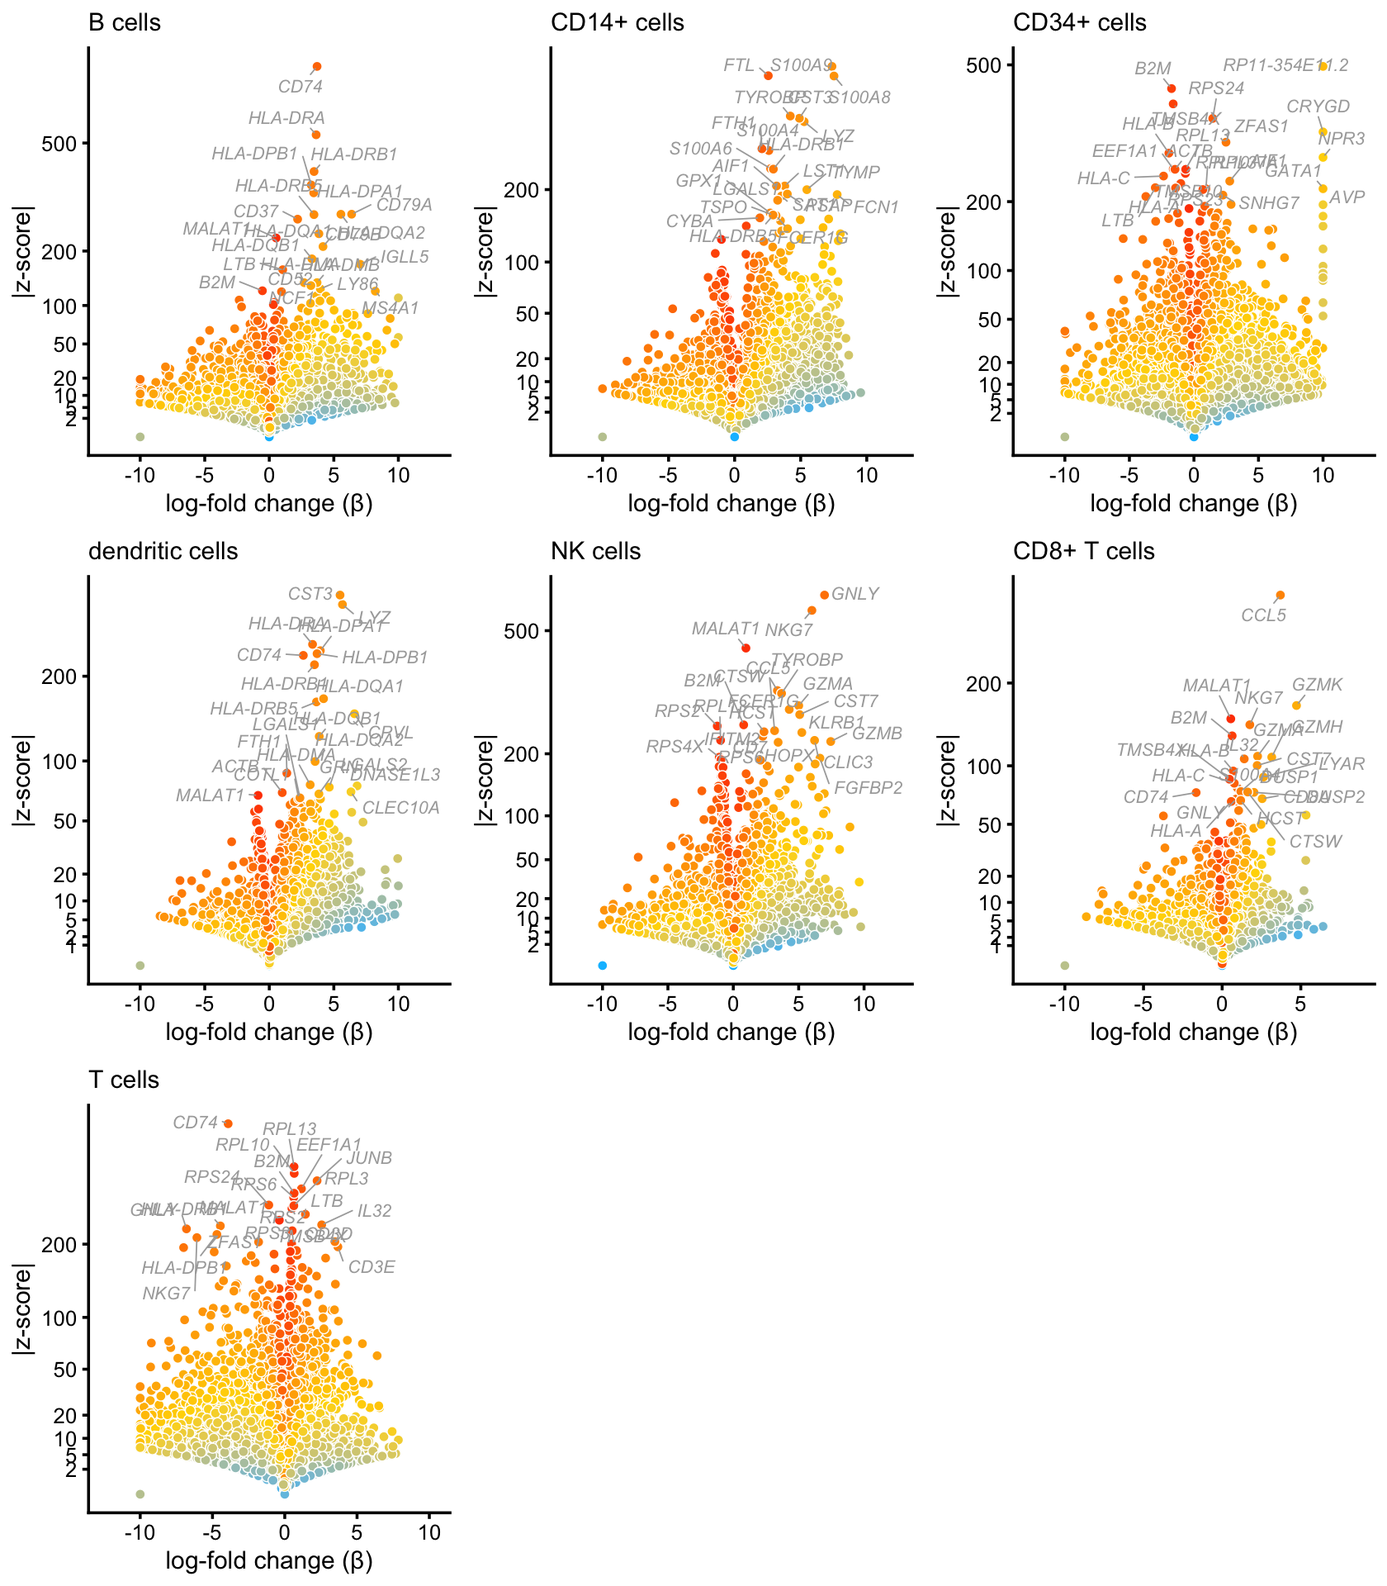
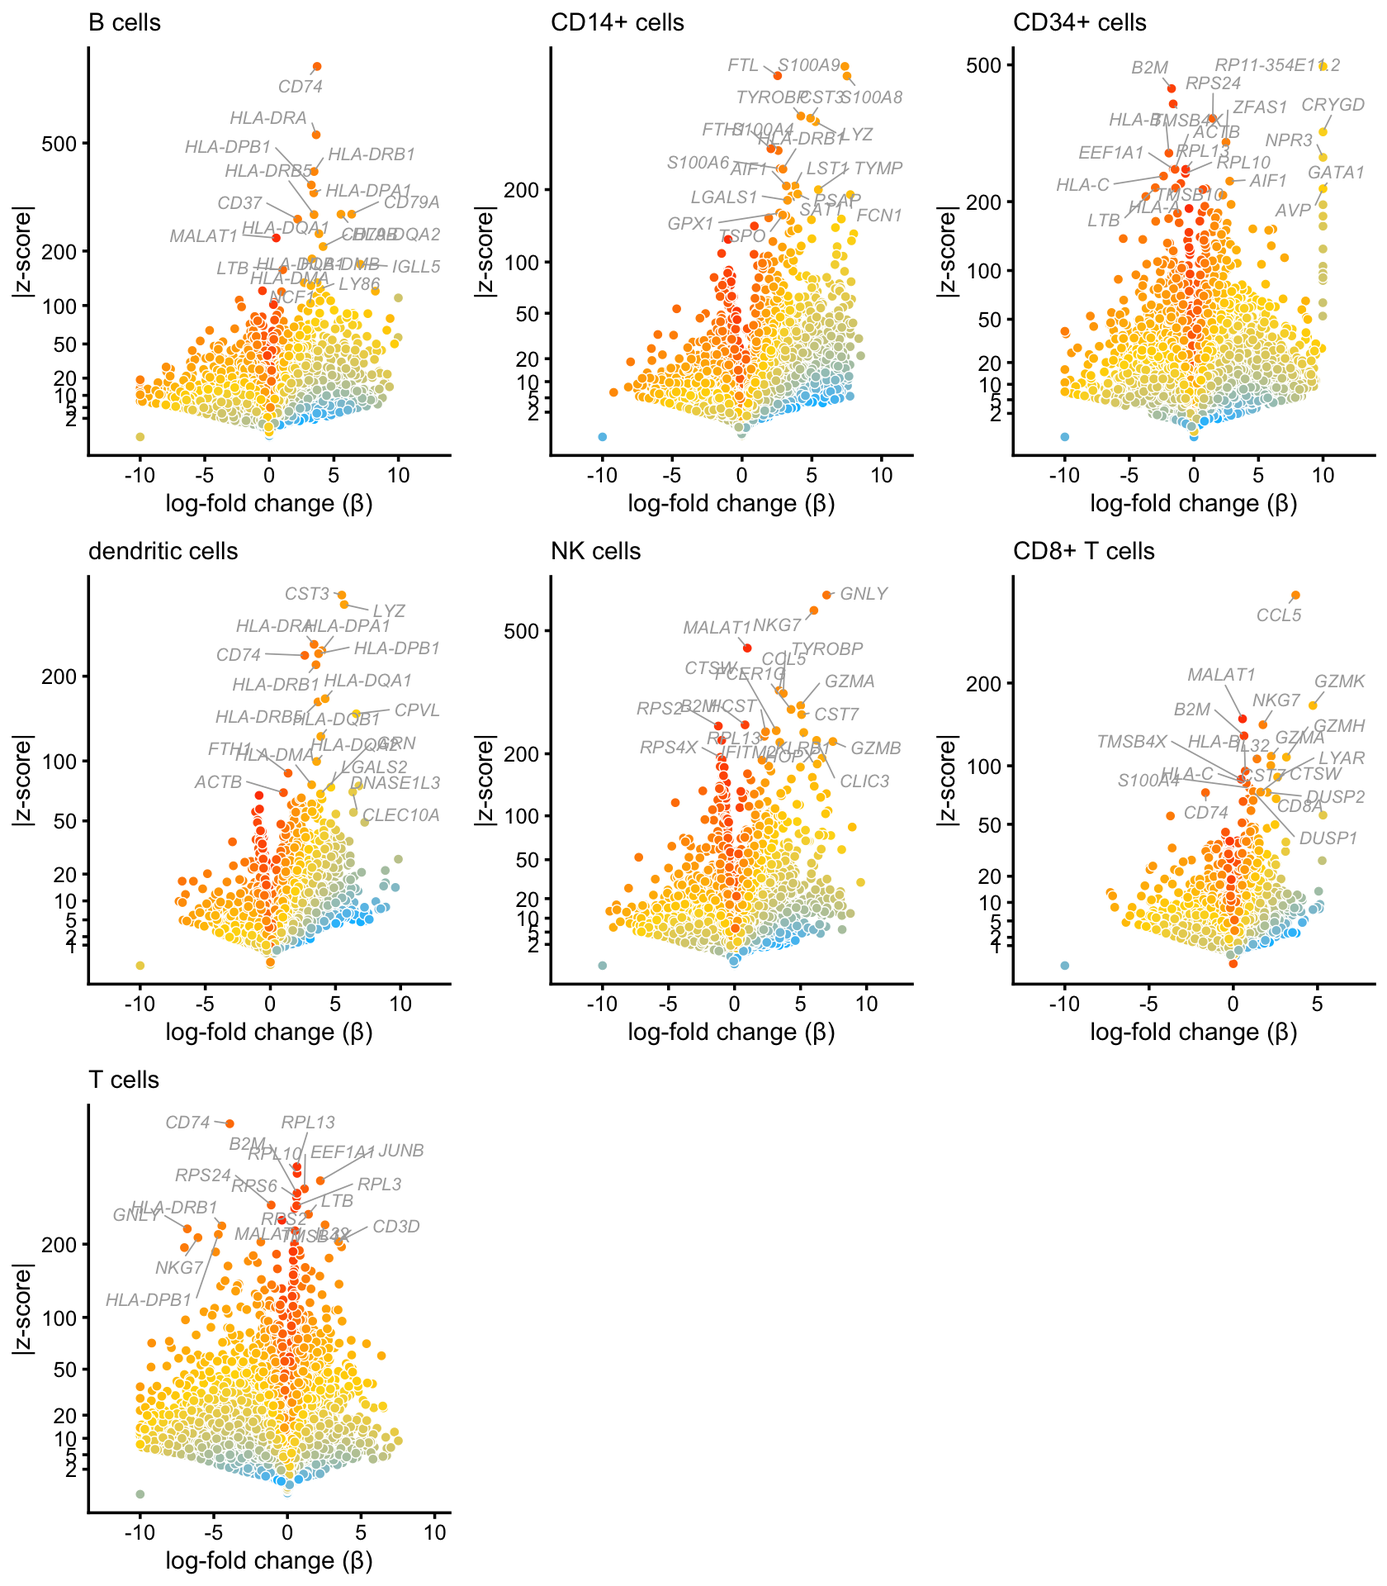
Re-built plots_purified_pbmc page after making improvements to the volcano plots.

diff --git a/docs/plots_purified_pbmc.html b/docs/plots_purified_pbmc.html
@@ -323,7 +323,7 @@ $(document).ready(function () {
 <div class="tab-content">
 <div id="summary" class="tab-pane fade in active">
 <p>
-<strong>Last updated:</strong> 2021-01-29
+<strong>Last updated:</strong> 2021-02-09
 </p>
 <p>
 <strong>Checks:</strong> <span class="glyphicon glyphicon-ok text-success" aria-hidden="true"></span> 6 <span class="glyphicon glyphicon-exclamation-sign text-danger" aria-hidden="true"></span> 1
@@ -429,16 +429,16 @@ diff-count-analysis-topics
 <div class="panel panel-default">
 <div class="panel-heading">
 <p class="panel-title">
-<a data-toggle="collapse" data-parent="#workflowr-checks" href="#strongRepositoryversionstrongahrefhttpsgithubcomstephenslabsinglecelltopicstree0b7339714de3e3fc87c26012b646aa1af42b06e2targetblank0b73397a"> <span class="glyphicon glyphicon-ok text-success" aria-hidden="true"></span> <strong>Repository version:</strong> <a href="https://github.com/stephenslab/single-cell-topics/tree/0b7339714de3e3fc87c26012b646aa1af42b06e2" target="_blank">0b73397</a> </a>
+<a data-toggle="collapse" data-parent="#workflowr-checks" href="#strongRepositoryversionstrongahrefhttpsgithubcomstephenslabsinglecelltopicstreeaecd70036aae5c383667631ec6234a278bea92b3targetblankaecd700a"> <span class="glyphicon glyphicon-ok text-success" aria-hidden="true"></span> <strong>Repository version:</strong> <a href="https://github.com/stephenslab/single-cell-topics/tree/aecd70036aae5c383667631ec6234a278bea92b3" target="_blank">aecd700</a> </a>
 </p>
 </div>
[2 lines of base64/hex data omitted]
 <div class="panel-body">
 <p>
 Great! You are using Git for version control. Tracking code development and connecting the code version to the results is critical for reproducibility.
 </p>
 <p>
-The results in this page were generated with repository version <a href="https://github.com/stephenslab/single-cell-topics/tree/0b7339714de3e3fc87c26012b646aa1af42b06e2" target="_blank">0b73397</a>. See the <em>Past versions</em> tab to see a history of the changes made to the R Markdown and HTML files.
+The results in this page were generated with repository version <a href="https://github.com/stephenslab/single-cell-topics/tree/aecd70036aae5c383667631ec6234a278bea92b3" target="_blank">aecd700</a>. See the <em>Past versions</em> tab to see a history of the changes made to the R Markdown and HTML files.
 </p>
 <p>
 Note that you need to be careful to ensure that all relevant files for the analysis have been committed to Git prior to generating the results (you can use <code>wflow_publish</code> or <code>wflow_git_commit</code>). workflowr only checks the R Markdown file, but you know if there are other scripts or data files that it depends on. Below is the status of the Git repository when the results were generated:
@@ -455,7 +455,6 @@ Ignored files:
     Ignored:    output/droplet/rds/
     Ignored:    output/pbmc-68k/fits-pbmc-68k.RData
     Ignored:    output/pbmc-68k/rds/
-    Ignored:    output/pbmc-purified/diff-count-pbmc-purified.RData
     Ignored:    output/pbmc-purified/fits-pbmc-purified.RData
     Ignored:    output/pbmc-purified/rds/
     Ignored:    output/pulseseq/diff-count-pulseseq.RData
@@ -463,6 +462,7 @@ Ignored files:
     Ignored:    output/pulseseq/rds/
 
 Untracked files:
+    Untracked:  .DS_Store
     Untracked:  analysis/plots_purified_pbmc_cache/
     Untracked:  plots/
 
@@ -503,6 +503,74 @@ Message
 </tr>
 </thead>
 <tbody>
+<tr>
+<td>
+Rmd
+</td>
+<td>
+<a href="https://github.com/stephenslab/single-cell-topics/blob/aecd70036aae5c383667631ec6234a278bea92b3/analysis/plots_purified_pbmc.Rmd" target="_blank">aecd700</a>
+</td>
+<td>
+Peter Carbonetto
+</td>
+<td>
+2021-02-09
+</td>
+<td>
+workflowr::wflow_publish(“plots_purified_pbmc.Rmd”, verbose = TRUE)
+</td>
+</tr>
+<tr>
+<td>
+Rmd
+</td>
+<td>
+<a href="https://github.com/stephenslab/single-cell-topics/blob/1f0eb8cf964185858bb1a1ad82035351424b0550/analysis/plots_purified_pbmc.Rmd" target="_blank">1f0eb8c</a>
+</td>
+<td>
+Peter Carbonetto
+</td>
+<td>
+2021-02-08
+</td>
+<td>
+More improvements to volcano plots in plots_purified_pbmc.Rmd.
+</td>
+</tr>
+<tr>
+<td>
+Rmd
+</td>
+<td>
+<a href="https://github.com/stephenslab/single-cell-topics/blob/be277389ea8d2bb0c390c95e4be08713ab595dfb/analysis/plots_purified_pbmc.Rmd" target="_blank">be27738</a>
+</td>
+<td>
+Peter Carbonetto
+</td>
+<td>
+2021-02-08
+</td>
+<td>
+Improved volcano plots for FACS cell populations in plots_purified_pbmc.Rmd.
+</td>
+</tr>
+<tr>
+<td>
+html
+</td>
+<td>
+<a href="https://rawcdn.githack.com/stephenslab/single-cell-topics/ab3eeb82557ac15852443a50d3aad409242690c7/docs/plots_purified_pbmc.html" target="_blank">ab3eeb8</a>
+</td>
+<td>
+Peter Carbonetto
+</td>
+<td>
+2021-01-29
+</td>
+<td>
+Build site.
+</td>
+</tr>
 <tr>
 <td>
 Rmd
@@ -812,7 +880,8 @@ diff_count_facs &lt;- diff_count_clusters(celltype,counts)
 # CD8+ Cytotoxic T           T cell 
 #            10209            54132 
 # Fitting 21952 x 6 = 131712 univariate Poisson models.
-# Computing log-fold change statistics.</code></pre>
+# Computing log-fold change statistics.
+# Stabilizing log-fold change estimates using adaptive shrinkage.</code></pre>
 <div class="alert alert-warning">
 <p>
 <strong>Warning:</strong> The above code chunk cached its results, but it won’t be re-run if previous chunks it depends on are updated. If you need to use caching, it is highly recommended to also set <code>knitr::opts_chunk$set(autodep = TRUE)</code> at the top of the file (in a chunk that is not cached). Alternatively, you can customize the option <code>dependson</code> for each individual chunk that is cached. Using either <code>autodep</code> or <code>dependson</code> will remove this warning. See the <a href="https://yihui.name/knitr/options/#cache"
@@ -821,27 +890,39 @@ diff_count_facs &lt;- diff_count_clusters(celltype,counts)
 </div>
 <p>These volcano plots summarize the results of the differential expression analysis using the FACS labeling:</p>
 <pre class="r"><code>p1 &lt;- volcano_plot(diff_count_facs,&quot;CD19+ B&quot;,genes$symbol,
-                   label_above_quantile = 0.9995) +
+                   label_above_quantile = 0.9995,
+                   subsample_below_quantile = 0.5,
+                   filter_low_counts = 5e-5) +
   guides(fill = &quot;none&quot;) +
   ggtitle(&quot;B cells&quot;)
 p2 &lt;- volcano_plot(diff_count_facs,&quot;CD14+ Monocyte&quot;,genes$symbol,
-                   label_above_quantile = 0.9995) +
+                   label_above_quantile = 0.9995,
+                   subsample_below_quantile = 0.5,
+                   filter_low_counts = 5e-5) +
   guides(fill = &quot;none&quot;) +
   ggtitle(&quot;CD14+ cells&quot;)
 p3 &lt;- volcano_plot(diff_count_facs,&quot;CD34+&quot;,genes$symbol,
-                   label_above_quantile = 0.999) +
+                   label_above_quantile = 0.999,
+                   subsample_below_quantile = 0.5,
+                   filter_low_counts = 5e-5) +
   guides(fill = &quot;none&quot;) +
   ggtitle(&quot;CD34+ cells&quot;)
 p4 &lt;- volcano_plot(diff_count_facs,&quot;CD56+ NK&quot;,genes$symbol,
-                   label_above_quantile = 0.9995) +
+                   label_above_quantile = 0.9995,
+                   subsample_below_quantile = 0.5,
+                   filter_low_counts = 5e-5) +
   guides(fill = &quot;none&quot;) +
   ggtitle(&quot;NK cells&quot;)
 p5 &lt;- volcano_plot(diff_count_facs,&quot;CD8+ Cytotoxic T&quot;,genes$symbol,
-                   label_above_quantile = 0.9995) +
+                   label_above_quantile = 0.9995,
+                   subsample_below_quantile = 0.5,
+                   filter_low_counts = 5e-5) +
   guides(fill = &quot;none&quot;) +
   ggtitle(&quot;CD8+ T cells&quot;)
 p6 &lt;- volcano_plot(diff_count_facs,&quot;T cell&quot;,genes$symbol,
-                   label_above_quantile = 0.999) +
+                   label_above_quantile = 0.999,
+                   subsample_below_quantile = 0.5,
+                   filter_low_counts = 5e-5) +
   guides(fill = &quot;none&quot;) +
   ggtitle(&quot;T cells&quot;)
 plot_grid(p1,p2,p3,p4,p5,p6,nrow = 2,ncol = 3)</code></pre>
@@ -868,6 +949,17 @@ Date
 </tr>
 </thead>
 <tbody>
+<tr>
+<td>
+<a href="https://github.com/stephenslab/single-cell-topics/blob/ab3eeb82557ac15852443a50d3aad409242690c7/docs/figure/plots_purified_pbmc.Rmd/volcano-plots-1-1.png" target="_blank">ab3eeb8</a>
+</td>
+<td>
+Peter Carbonetto
+</td>
+<td>
+2021-01-29
+</td>
+</tr>
 <tr>
 <td>
 <a href="https://github.com/stephenslab/single-cell-topics/blob/42ebc62099a4d7af6134fbfea745d3d7b6cdfbf3/docs/figure/plots_purified_pbmc.Rmd/volcano-plots-1-1.png" target="_blank">42ebc62</a>
@@ -934,7 +1026,8 @@ diff_count_clusters &lt;- diff_count_clusters(samples$cluster,counts)
 #         B     CD14+     CD34+      CD8+ dendritic        NK         T 
 #     10439      2956      8237      3757       308      8380     60578 
 # Fitting 21952 x 7 = 153664 univariate Poisson models.
-# Computing log-fold change statistics.</code></pre>
+# Computing log-fold change statistics.
+# Stabilizing log-fold change estimates using adaptive shrinkage.</code></pre>
 <div class="alert alert-warning">
 <p>
 <strong>Warning:</strong> The above code chunk cached its results, but it won’t be re-run if previous chunks it depends on are updated. If you need to use caching, it is highly recommended to also set <code>knitr::opts_chunk$set(autodep = TRUE)</code> at the top of the file (in a chunk that is not cached). Alternatively, you can customize the option <code>dependson</code> for each individual chunk that is cached. Using either <code>autodep</code> or <code>dependson</code> will remove this warning. See the <a href="https://yihui.name/knitr/options/#cache"
@@ -943,33 +1036,54 @@ diff_count_clusters &lt;- diff_count_clusters(samples$cluster,counts)
 </div>
 <p>These volcano plots summarize the results of the differential expression analysis using the clusters:</p>
 <pre class="r"><code>p7 &lt;- volcano_plot(diff_count_clusters,&quot;B&quot;,genes$symbol,
-                   label_above_quantile = 0.999) +
+                   label_above_quantile = 0.999,
+                   subsample_below_quantile = 0.5,
+                   filter_low_counts = 5e-5) +
   guides(fill = &quot;none&quot;) +
   ggtitle(&quot;B cells&quot;)
+# 10134 out of 18417 data points will be included in plot
 p8 &lt;- volcano_plot(diff_count_clusters,&quot;CD14+&quot;,genes$symbol,
-                   label_above_quantile = 0.999) +
+                   label_above_quantile = 0.999,
+                   subsample_below_quantile = 0.5,
+                   filter_low_counts = 5e-5) +
   guides(fill = &quot;none&quot;) +
   ggtitle(&quot;CD14+ cells&quot;)
+# 10130 out of 18417 data points will be included in plot
 p9 &lt;- volcano_plot(diff_count_clusters,&quot;CD34+&quot;,genes$symbol,
-                   label_above_quantile = 0.999) +
+                   label_above_quantile = 0.999,
+                   subsample_below_quantile = 0.5,
+                   filter_low_counts = 5e-5) +
   guides(fill = &quot;none&quot;) +
   ggtitle(&quot;CD34+ cells&quot;)
+# 10130 out of 18417 data points will be included in plot
 p10 &lt;- volcano_plot(diff_count_clusters,&quot;dendritic&quot;,genes$symbol,
-                    label_above_quantile = 0.999) +
+                    label_above_quantile = 0.999,
+                    subsample_below_quantile = 0.5,
+                    filter_low_counts = 5e-5) +
   guides(fill = &quot;none&quot;) +
   ggtitle(&quot;dendritic cells&quot;)
+# 10130 out of 18417 data points will be included in plot
 p11 &lt;- volcano_plot(diff_count_clusters,&quot;NK&quot;,genes$symbol,
-                    label_above_quantile = 0.999) +
+                    label_above_quantile = 0.999,
+                    subsample_below_quantile = 0.5,
+                    filter_low_counts = 5e-5) +
   guides(fill = &quot;none&quot;) +
   ggtitle(&quot;NK cells&quot;)
+# 10130 out of 18417 data points will be included in plot
 p12 &lt;- volcano_plot(diff_count_clusters,&quot;CD8+&quot;,genes$symbol,
-                    label_above_quantile = 0.999) +
+                    label_above_quantile = 0.999,
+                    subsample_below_quantile = 0.5,
+                    filter_low_counts = 5e-5) +
   guides(fill = &quot;none&quot;) +
   ggtitle(&quot;CD8+ T cells&quot;)
+# 10130 out of 18417 data points will be included in plot
 p13 &lt;- volcano_plot(diff_count_clusters,&quot;T&quot;,genes$symbol,
-                    label_above_quantile = 0.999) +
+                    label_above_quantile = 0.999,
+                    subsample_below_quantile = 0.5,
+                    filter_low_counts = 5e-5) +
   guides(fill = &quot;none&quot;) +
   ggtitle(&quot;T cells&quot;)
+# 10131 out of 18417 data points will be included in plot
 plot_grid(p7,p8,p9,p10,p11,p12,p13,nrow = 3,ncol = 3)</code></pre>
 <p><img src="figure/plots_purified_pbmc.Rmd/volcano-plots-2-1.png" width="840" style="display: block; margin: auto;" /></p>
 <p>
@@ -994,6 +1108,17 @@ Date
 </tr>
 </thead>
 <tbody>
+<tr>
+<td>
+<a href="https://github.com/stephenslab/single-cell-topics/blob/ab3eeb82557ac15852443a50d3aad409242690c7/docs/figure/plots_purified_pbmc.Rmd/volcano-plots-2-1.png" target="_blank">ab3eeb8</a>
+</td>
+<td>
+Peter Carbonetto
+</td>
+<td>
+2021-01-29
+</td>
+</tr>
 <tr>
 <td>
 <a href="https://github.com/stephenslab/single-cell-topics/blob/42ebc62099a4d7af6134fbfea745d3d7b6cdfbf3/docs/figure/plots_purified_pbmc.Rmd/volcano-plots-2-1.png" target="_blank">42ebc62</a>
@@ -1053,13 +1178,14 @@ Peter Carbonetto
 </table>
 </div>
 </div>
-<p>Perform differential expression analysis using the multinomial topic model, after removing the dendritic cells cluster, and after merging the two T-cell topics:</p>
+<p>Perform differential expression analysis using the multinomial topic model, after removing the dendritic cells cluster, and after merging the two T cell topics:</p>
 <pre class="r"><code>rows &lt;- which(samples$cluster != &quot;dendritic&quot;)
 fit_merged &lt;- select_loadings(fit,loadings = rows)
 fit_merged &lt;- merge_topics(fit,c(1,6))
 diff_count_topics &lt;- diff_count_analysis(fit_merged,counts)
 # Fitting 21952 x 5 = 109760 univariate Poisson models.
-# Computing log-fold change statistics.</code></pre>
+# Computing log-fold change statistics.
+# Stabilizing log-fold change estimates using adaptive shrinkage.</code></pre>
 <div class="alert alert-warning">
 <p>
 <strong>Warning:</strong> The above code chunk cached its results, but it won’t be re-run if previous chunks it depends on are updated. If you need to use caching, it is highly recommended to also set <code>knitr::opts_chunk$set(autodep = TRUE)</code> at the top of the file (in a chunk that is not cached). Alternatively, you can customize the option <code>dependson</code> for each individual chunk that is cached. Using either <code>autodep</code> or <code>dependson</code> will remove this warning. See the <a href="https://yihui.name/knitr/options/#cache"
@@ -1071,17 +1197,19 @@ diff_count_topics &lt;- diff_count_analysis(fit_merged,counts)
 fit_t &lt;- select_loadings(fit,loadings = rows)
 diff_count_t &lt;- diff_count_analysis(fit_t,counts[rows,])
 # Fitting 21952 x 6 = 131712 univariate Poisson models.
-# Computing log-fold change statistics.</code></pre>
+# Computing log-fold change statistics.
+# Stabilizing log-fold change estimates using adaptive shrinkage.</code></pre>
 <div class="alert alert-warning">
 <p>
 <strong>Warning:</strong> The above code chunk cached its results, but it won’t be re-run if previous chunks it depends on are updated. If you need to use caching, it is highly recommended to also set <code>knitr::opts_chunk$set(autodep = TRUE)</code> at the top of the file (in a chunk that is not cached). Alternatively, you can customize the option <code>dependson</code> for each individual chunk that is cached. Using either <code>autodep</code> or <code>dependson</code> will remove this warning. See the <a href="https://yihui.name/knitr/options/#cache"
 >knitr cache options</a> for more details.
 </p>
 </div>
-<p>Having completed the differential expression calculations, as an example, we visualize the differential expression results for topic 3 (“B cells”) using a volcano plot:</p>
+<p>These volcano plots summarize the results of the differential expression analysis using the topic model:</p>
 <pre class="r"><code>volcano_plot(diff_count_topics,&quot;k3&quot;,genes$symbol,
              label_above_quantile = 0.998) +
   ggtitle(&quot;topic 3 (B cells)&quot;)</code></pre>
+<p><img src="figure/plots_purified_pbmc.Rmd/volcano-plots-3-1.png" width="840" style="display: block; margin: auto;" /></p>
 <p>Here are more volcano plots:</p>
 <pre class="r"><code>p2 &lt;- volcano_plot_better(diff_count_topics,&quot;k3&quot;,genes$symbol,0.998,
                           &quot;topic 3 (B cells)&quot;)
@@ -1167,33 +1295,35 @@ plot_grid(p10,p11,p12,p13,p14,nrow = 3,ncol = 2)</code></pre>
 # [1] stats     graphics  grDevices utils     datasets  methods   base     
 # 
 # other attached packages:
-# [1] cowplot_1.0.0     ggrepel_0.9.0     ggplot2_3.3.0     fastTopics_0.4-29
+# [1] cowplot_1.0.0     ggrepel_0.9.0     ggplot2_3.3.0     fastTopics_0.4-33
 # [5] Matrix_1.2-18    
 # 
 # loaded via a namespace (and not attached):
-#  [1] Rcpp_1.0.5           lattice_0.20-38      tidyr_1.0.0         
-#  [4] prettyunits_1.1.1    assertthat_0.2.1     zeallot_0.1.0       
-#  [7] rprojroot_1.3-2      digest_0.6.23        R6_2.4.1            
-# [10] backports_1.1.5      MatrixModels_0.4-1   evaluate_0.14       
-# [13] coda_0.19-3          httr_1.4.2           pillar_1.4.3        
-# [16] rlang_0.4.5          progress_1.2.2       lazyeval_0.2.2      
-# [19] data.table_1.12.8    irlba_2.3.3          SparseM_1.78        
-# [22] whisker_0.4          rmarkdown_2.3        labeling_0.3        
-# [25] Rtsne_0.15           stringr_1.4.0        htmlwidgets_1.5.1   
-# [28] munsell_0.5.0        compiler_3.6.2       httpuv_1.5.2        
-# [31] xfun_0.11            pkgconfig_2.0.3      mcmc_0.9-6          
-# [34] htmltools_0.4.0      tidyselect_0.2.5     tibble_2.1.3        
-# [37] workflowr_1.6.2.9000 quadprog_1.5-8       viridisLite_0.3.0   
-# [40] crayon_1.3.4         dplyr_0.8.3          withr_2.1.2         
-# [43] later_1.0.0          MASS_7.3-51.4        grid_3.6.2          
-# [46] jsonlite_1.6         gtable_0.3.0         lifecycle_0.1.0     
-# [49] git2r_0.26.1         magrittr_1.5         scales_1.1.0        
-# [52] RcppParallel_4.4.2   stringi_1.4.3        farver_2.0.1        
-# [55] fs_1.3.1             promises_1.1.0       vctrs_0.2.1         
-# [58] tools_3.6.2          glue_1.3.1           purrr_0.3.3         
-# [61] hms_0.5.2            yaml_2.2.0           colorspace_1.4-1    
-# [64] plotly_4.9.2         knitr_1.26           quantreg_5.54       
-# [67] MCMCpack_1.4-5</code></pre>
+#  [1] httr_1.4.2           tidyr_1.0.0          jsonlite_1.6        
+#  [4] viridisLite_0.3.0    RcppParallel_4.4.2   assertthat_0.2.1    
+#  [7] mixsqp_0.3-44        yaml_2.2.0           progress_1.2.2      
+# [10] pillar_1.4.3         backports_1.1.5      lattice_0.20-38     
+# [13] quantreg_5.54        glue_1.3.1           quadprog_1.5-8      
+# [16] digest_0.6.23        promises_1.1.0       colorspace_1.4-1    
+# [19] htmltools_0.4.0      httpuv_1.5.2         pkgconfig_2.0.3     
+# [22] invgamma_1.1         SparseM_1.78         purrr_0.3.3         
+# [25] scales_1.1.0         whisker_0.4          later_1.0.0         
+# [28] Rtsne_0.15           MatrixModels_0.4-1   git2r_0.26.1        
+# [31] tibble_2.1.3         farver_2.0.1         withr_2.1.2         
+# [34] ashr_2.2-51          lazyeval_0.2.2       magrittr_1.5        
+# [37] crayon_1.3.4         mcmc_0.9-6           evaluate_0.14       
+# [40] fs_1.3.1             MASS_7.3-51.4        truncnorm_1.0-8     
+# [43] tools_3.6.2          data.table_1.12.8    prettyunits_1.1.1   
+# [46] hms_0.5.2            lifecycle_0.1.0      stringr_1.4.0       
+# [49] MCMCpack_1.4-5       plotly_4.9.2         munsell_0.5.0       
+# [52] irlba_2.3.3          compiler_3.6.2       rlang_0.4.5         
+# [55] grid_3.6.2           htmlwidgets_1.5.1    labeling_0.3        
+# [58] rmarkdown_2.3        gtable_0.3.0         codetools_0.2-16    
+# [61] R6_2.4.1             knitr_1.26           dplyr_0.8.3         
+# [64] zeallot_0.1.0        workflowr_1.6.2.9000 rprojroot_1.3-2     
+# [67] stringi_1.4.3        SQUAREM_2017.10-1    Rcpp_1.0.5          
+# [70] vctrs_0.2.1          tidyselect_0.2.5     xfun_0.11           
+# [73] coda_0.19-3</code></pre>
 </div>
 
 
